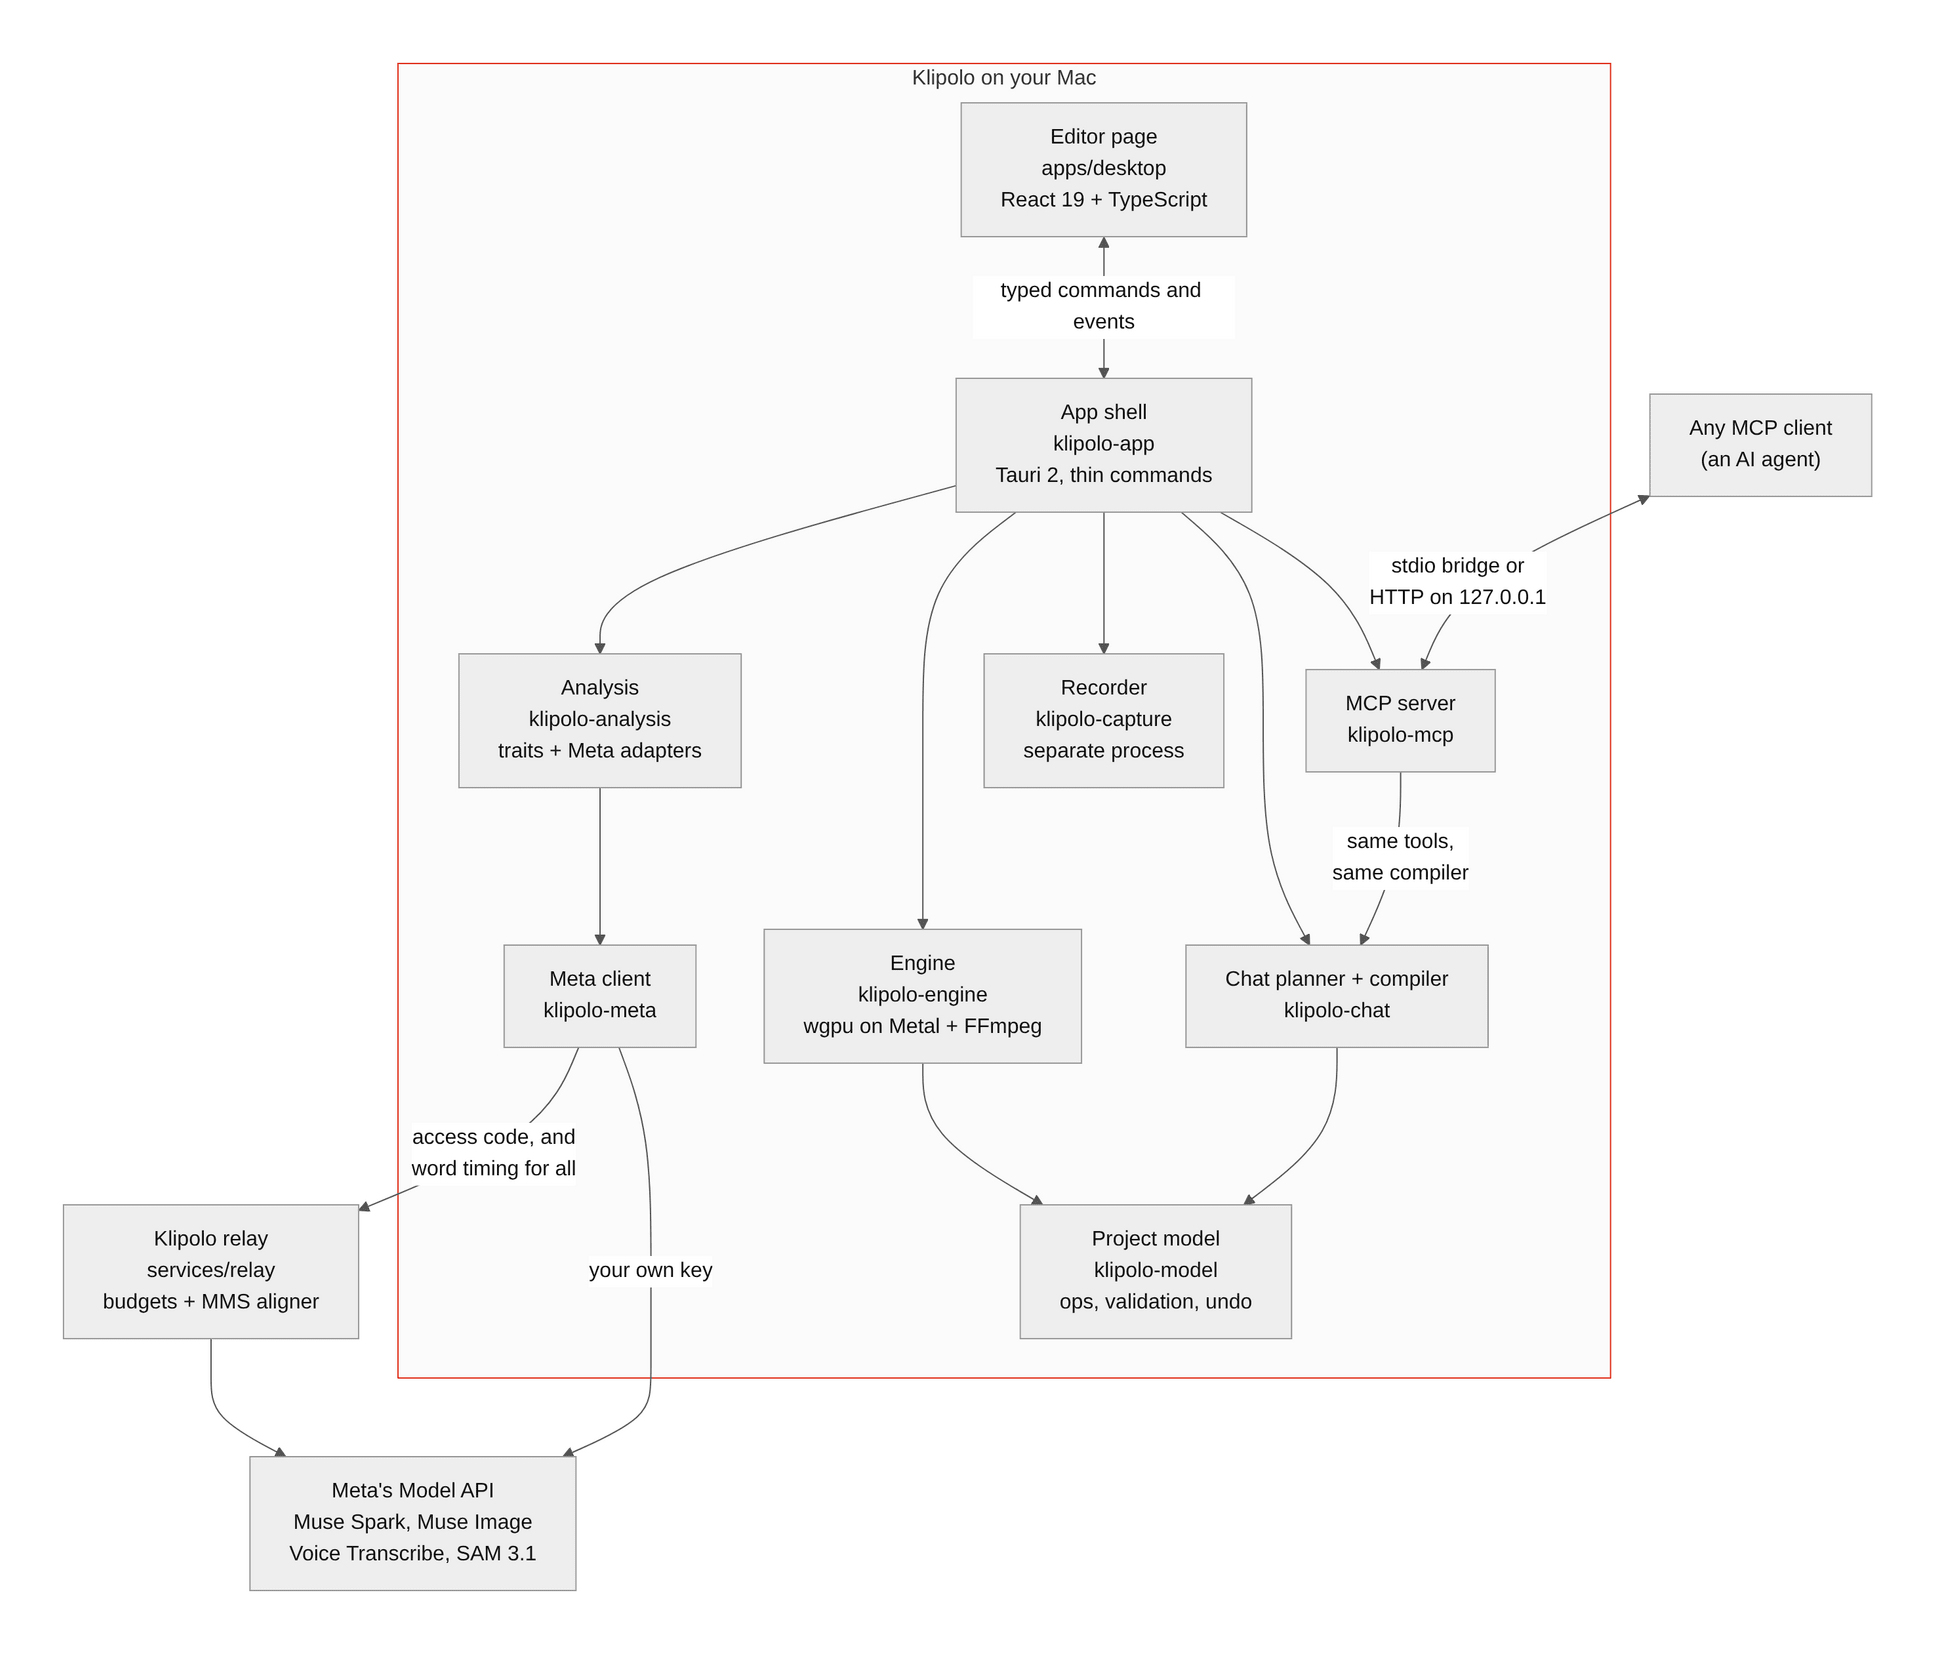
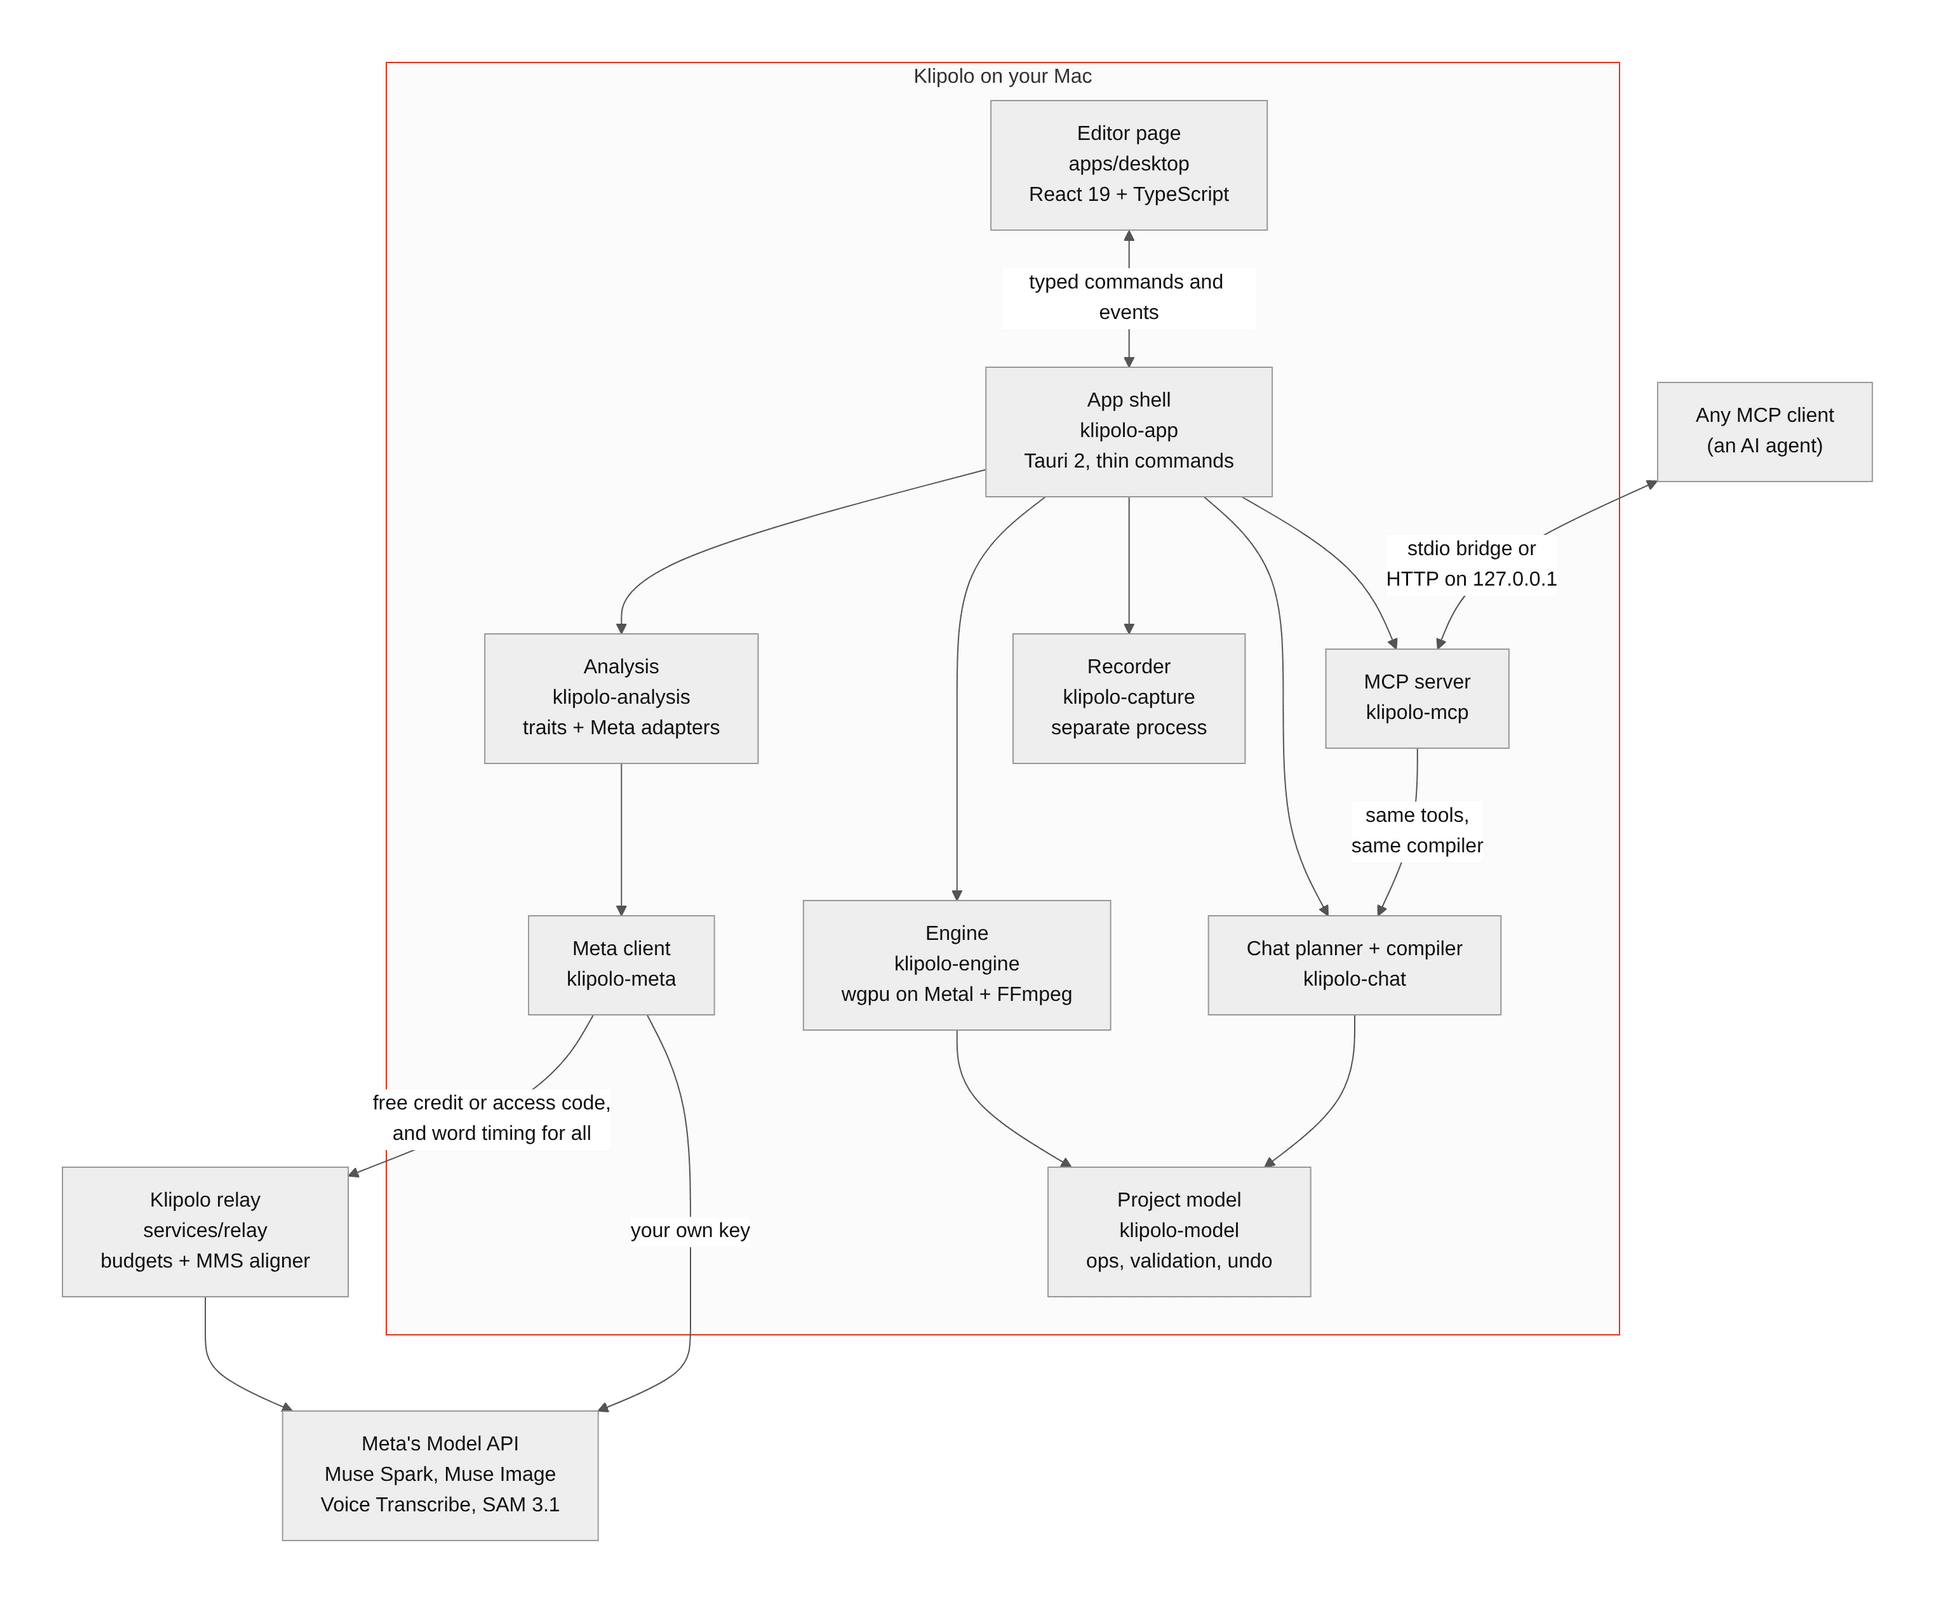
docs: name the free credit on the architecture diagram's relay arrow

diff --git a/README.md b/README.md
@@ -213,7 +213,7 @@ The code: the loop is `crates/klipolo-chat/src/planner.rs` (`MAX_STEPS = 10`), t
 Klipolo is a Tauri 2 app. Rust crates do the work, a React page draws the editor, and each crate has one job.
 
 <p align="center">
-  <img src="docs/images/architecture.png" alt="Architecture diagram. On the Mac, the editor page (React) talks to the app shell (klipolo-app, Tauri 2) through typed commands and events. The shell uses the chat planner and compiler (klipolo-chat), the engine (klipolo-engine, wgpu on Metal and FFmpeg), the recorder (klipolo-capture), the analysis (klipolo-analysis) and the MCP server (klipolo-mcp). Chat and the engine use the project model (klipolo-model). The MCP server uses chat's tools and compiler, and any MCP client reaches it over a stdio bridge or HTTP on 127.0.0.1. The analysis uses the Meta client (klipolo-meta), which calls Meta's Model API directly with your own key or through the Klipolo relay with an access code; word timing goes through the relay for everyone.">
+  <img src="docs/images/architecture.png" alt="Architecture diagram. On the Mac, the editor page (React) talks to the app shell (klipolo-app, Tauri 2) through typed commands and events. The shell uses the chat planner and compiler (klipolo-chat), the engine (klipolo-engine, wgpu on Metal and FFmpeg), the recorder (klipolo-capture), the analysis (klipolo-analysis) and the MCP server (klipolo-mcp). Chat and the engine use the project model (klipolo-model). The MCP server uses chat's tools and compiler, and any MCP client reaches it over a stdio bridge or HTTP on 127.0.0.1. The analysis uses the Meta client (klipolo-meta), which calls Meta's Model API directly with your own key or through the Klipolo relay with the free credit or an access code; word timing goes through the relay for everyone.">
 </p>
 
 <details>
@@ -248,7 +248,7 @@ flowchart TB
     engine --> model
     analysis --> metac
     metac -->|your own key| meta
-    metac -->|access code, and<br/>word timing for all| relay
+    metac -->|free credit or access code,<br/>and word timing for all| relay
     relay --> meta
 ```
 
